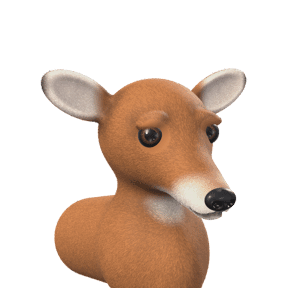
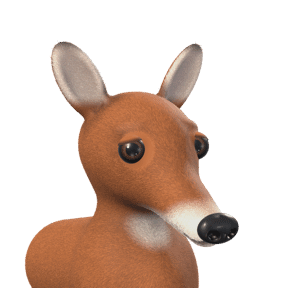
Neubau Reh, Katze und Retriever
Reh mit schraeg stehenden Lauschern statt waagerechter, ohne Brauenwulst,
mit laengerer Schnauze und schwarzem Nasenspiegel. Katze und Retriever mit
erwachsenen Proportionen: schmalerer Kopf, laengere Schnauze, kleinere Augen;
Retriever in Dreiviertelansicht. Alle drei Ausdruecke.

pruef-alles 9/9.

diff --git a/tools/figuren_rendern/Tiere.swift b/tools/figuren_rendern/Tiere.swift
@@ -497,16 +497,16 @@ func fuchs() -> (SCNNode, Float, V) {
 func katze() -> (SCNNode, Float, V) {
     let rot = hex("#D9893E"), streifen = hex("#9E5320"), weiss = hex("#F4EBDF"), rosa = hex("#E8A9A0")
     var formen: [Form] = [
-        Form(art: .ellipsoid(V(0.95, 0.80, 0.85)), mitte: V(0, 0.10, 0)),
-        Form(art: .ellipsoid(V(0.42, 0.30, 0.34)), mitte: V(-0.60, -0.22, 0.25), weich: 0.30),
-        Form(art: .ellipsoid(V(0.42, 0.30, 0.34)), mitte: V(0.60, -0.22, 0.25), weich: 0.30),
+        Form(art: .ellipsoid(V(0.82, 0.72, 0.84)), mitte: V(0, 0.10, -0.02)),
+        Form(art: .ellipsoid(V(0.36, 0.26, 0.32)), mitte: V(-0.52, -0.22, 0.26), weich: 0.30),
+        Form(art: .ellipsoid(V(0.36, 0.26, 0.32)), mitte: V(0.52, -0.22, 0.26), weich: 0.30),
         // Schnurrhaarpolster: zwei Wuelste unter der Nase, das Kennzeichen jedes Katzengesichts.
-        Form(art: .ellipsoid(V(0.22, 0.17, 0.18)), mitte: V(-0.15, -0.26, 0.78), weich: 0.12),
-        Form(art: .ellipsoid(V(0.22, 0.17, 0.18)), mitte: V(0.15, -0.26, 0.78), weich: 0.12),
-        Form(art: .ellipsoid(V(0.17, 0.12, 0.14)), mitte: V(0, -0.42, 0.68), weich: 0.12),
+        Form(art: .ellipsoid(V(0.18, 0.14, 0.15)), mitte: V(-0.13, -0.26, 0.86), weich: 0.12),
+        Form(art: .ellipsoid(V(0.18, 0.14, 0.15)), mitte: V(0.13, -0.26, 0.86), weich: 0.12),
+        Form(art: .ellipsoid(V(0.15, 0.11, 0.14)), mitte: V(0, -0.42, 0.76), weich: 0.12),
     ]
-    formen += ohrPaar(0.50, 0.55, -0.05, laenge: V(0.22, 0.62, -0.02), r1: 0.34, r2: 0.05, flach: 0.42)
-    formen += lider(0.33, 0.12, 0.66, 0.18, weich: 0.12)
+    formen += ohrPaar(0.46, 0.52, -0.06, laenge: V(0.18, 0.54, -0.02), r1: 0.30, r2: 0.045, flach: 0.42)
+    formen += lider(0.30, 0.13, 0.66, 0.15, weich: 0.12)
     let kopf = Koerper(formen: formen, farbe: { p, n in
         var c = farbeMitRauschen(rot, p, 0.07)
         // Tigerung: Streifen quer ueber Stirn und Wangen, auf der Stirn das "M".
@@ -524,15 +524,15 @@ func katze() -> (SCNNode, Float, V) {
     }, rauheit: 0.72, fell: 0.06)
     // Katze: helles Fell ueber den Augen (Katzen haben einen hellen Ring ums Auge); mittellang,
     // Wangenbueschel, kurz auf den Schnurrhaarpolstern.
-    var (braue, braueM) = mitBrauen(kopf, x: 0.30, y: 0.35, laenge: 0.13, dicke: 0.045, winkel: 0.18, farbe: mische(rot, weiss, 0.6), staerke: 0.85)
-    braue.haar = haarKarte(kopf, FellKarte(kopf: 0.05, rumpf: 0.07, nase: V(0, -0.06, 0.92), schnauze: 0.45,
-        augen: augenStellen(kopf, x: 0.33, y: 0.12), augenR: 0.19,
-        zonen: beide(V(0.62, -0.22, 0.25), V(0.40, 0.30, 0.40), 1.8) + [(V(0, 0.85, 0), V(0.9, 0.35, 0.5), 0.35)]), braue: braueM)
-    braue.fellArt = Fell(dichte: 85, ursprung: V(0, -0.06, 0.92), spitze: 1.04, straehnen: 0.3)
+    var (braue, braueM) = mitBrauen(kopf, x: 0.30, y: 0.35, laenge: 0.13, dicke: 0.045, winkel: 0.18, farbe: mische(rot, weiss, 0.4), staerke: 0.5)
+    braue.haar = haarKarte(kopf, FellKarte(kopf: 0.05, rumpf: 0.07, nase: V(0, -0.06, 1.00), schnauze: 0.45,
+        augen: augenStellen(kopf, x: 0.30, y: 0.13), augenR: 0.16,
+        zonen: beide(V(0.54, -0.22, 0.26), V(0.38, 0.30, 0.40), 1.8) + [(V(0, 0.85, 0), V(0.9, 0.35, 0.5), 0.35)]), braue: braueM)
+    braue.fellArt = Fell(dichte: 95, ursprung: V(0, -0.06, 1.00), wurzel: 0.58, spitze: 1.12, straehnen: 0.3, streuung: 0.15)
     // Katze: das "ω" — eine Rinne von der Nase senkrecht nach unten, die sich unter den
     // Schnurrhaarpolstern in zwei Boegen teilt.
-    let maul = mitMaul(braue, Maul(kurven: [Kurve(punkte: [V(0, -0.17, 0.98), V(0, -0.30, 0.97), V(0, -0.38, 0.94)], spitzHinten: false)]
-        + paar(Kurve(punkte: [V(0, -0.38, 0.94), V(0.06, -0.43, 0.92), V(0.13, -0.43, 0.88), V(0.19, -0.39, 0.82)], spitzVorn: false)),
+    let maul = mitMaul(braue, Maul(kurven: [Kurve(punkte: [V(0, -0.17, 1.06), V(0, -0.30, 1.05), V(0, -0.38, 1.02)], spitzHinten: false)]
+        + paar(Kurve(punkte: [V(0, -0.38, 1.02), V(0.06, -0.43, 1.00), V(0.13, -0.43, 0.96), V(0.19, -0.39, 0.90)], spitzVorn: false)),
         r: 0.031, farbe: hex("#7E4234"), staerke: 0.85))
     let bau = Bau(bein: 0.17, ruecken: 0.60)
     let koerper = brustbild(maul, vierbeiner(bau), farbe: { p, _ in
@@ -544,8 +544,8 @@ func katze() -> (SCNNode, Float, V) {
         return mische(c, farbeMitRauschen(weiss, p, 0.04), latz(p, breite: 0.30))
     })
     let w = SCNNode(); w.addChildNode(brustKnoten(koerper))
-    tierNase(w, mitte: V(0, -0.08, 0.93), r: V(0.095, 0.06, 0.06), farbe: hex("#C97F7C"), dreieck: true)
-    augenEinsetzen(w, kopf, x: 0.33, y: 0.12, r: 0.17, iris: NSColor(calibratedRed: 0.62, green: 0.74, blue: 0.22, alpha: 1), pupille: 0.55, schlitz: true, schlitzBreite: 0.62, ausdruck: Ausdruck(oben: 0.10, unten: 0.07, schraeg: 0.14, funke: 1.5, wange: 0.40))
+    tierNase(w, mitte: V(0, -0.08, 1.01), r: V(0.095, 0.06, 0.06), farbe: hex("#C97F7C"), dreieck: true)
+    augenEinsetzen(w, kopf, x: 0.30, y: 0.13, r: 0.145, iris: NSColor(calibratedRed: 0.62, green: 0.74, blue: 0.22, alpha: 1), pupille: 0.55, schlitz: true, schlitzBreite: 0.62, ausdruck: Ausdruck(oben: 0.10, unten: 0.07, schraeg: 0.14, funke: 1.5, wange: 0.40))
     w.eulerAngles = SCNVector3(0.06, 0.34, 0.12)
     return (w, 7.3, V(0, 0.18, 0))
 }
@@ -702,42 +702,43 @@ func hase() -> (SCNNode, Float, V) {
 // ---------- Reh ----------
 
 func reh() -> (SCNNode, Float, V) {
-    let braun = hex("#B47548"), weiss = hex("#F2E8DC"), dunkel = hex("#3A2418")
+    let braun = hex("#A9643A"), weiss = hex("#F2E8DC"), dunkel = hex("#3A2418")
     var formen: [Form] = [
         // Wie beim echten Reh: schmale Hirnschale, langer, sich verjuengender Nasenruecken.
-        Form(art: .ellipsoid(V(0.66, 0.64, 0.74)), mitte: V(0, 0.17, -0.08)),
+        Form(art: .ellipsoid(V(0.58, 0.58, 0.80)), mitte: V(0, 0.17, -0.10)),
         // lange, schmale Schnauze
-        Form(art: .rundkegel(V(0, -0.36, 0.90), 0.38, 0.23), mitte: V(0, -0.02, 0.28), weich: 0.28),
+        Form(art: .rundkegel(V(0, -0.40, 1.02), 0.34, 0.19), mitte: V(0, -0.02, 0.28), weich: 0.28),
     ]
-    // Lauscher: gross, seitlich abstehend, schaufelfoermig.
+    // Lauscher: gross und oval, SCHRAEG NACH OBEN (waagerecht abstehend wirkten sie wie Zeichentrick), leicht nach vorn offen.
     for sx: Float in [-1, 1] {
-        formen.append(Form(art: .ellipsoid(V(0.48, 0.24, 0.10)), mitte: V(0.92 * sx, 0.62, -0.18),
-                           drehung: simd_quatf(angle: 0.45 * sx, axis: V(0, 0, 1)), weich: 0.12))
-        formen.append(Form(art: .ellipsoid(V(0.38, 0.17, 0.08)), mitte: V(0.94 * sx, 0.64, -0.10),
-                           drehung: simd_quatf(angle: 0.45 * sx, axis: V(0, 0, 1)), weich: 0.05, abziehen: true))
+        let dreh = simd_quatf(angle: -0.55 * sx, axis: V(0, 0, 1)) * simd_quatf(angle: 0.30 * sx, axis: V(0, 1, 0))
+        formen.append(Form(art: .ellipsoid(V(0.22, 0.46, 0.09)), mitte: V(0.60 * sx, 0.86, -0.22), drehung: dreh, weich: 0.12))
+        formen.append(Form(art: .ellipsoid(V(0.15, 0.36, 0.07)), mitte: V(0.62 * sx, 0.88, -0.15), drehung: dreh, weich: 0.05, abziehen: true))
     }
-    formen += lider(0.36, 0.22, 0.52, 0.16)
+    formen += lider(0.36, 0.22, 0.52, 0.10)
     let kopf = Koerper(formen: formen, farbe: { p, n in
         var c = farbeMitRauschen(braun, p, 0.08)
         // Weisser Ring um die Schnauze, Kinn hell, Nasenruecken dunkler.
-        c = mische(c, weiss, region(p, V(0, -0.400, 1.080), V(0.34, 0.24, 0.30), 0.35))
+        c = mische(c, weiss, region(p, V(0, -0.440, 1.200), V(0.30, 0.22, 0.32), 0.35))
         c = mische(c, weiss, glatt(-0.30, -0.45, p.y) * glatt(0.3, 0.6, p.z))
-        c *= 1 - 0.20 * region(p, V(0, -0.060, 1.160), V(0.15, 0.3, 0.4), 0.5)
+        c *= 1 - 0.20 * region(p, V(0, -0.080, 1.260), V(0.14, 0.3, 0.45), 0.5)
         // Ohren innen hell, Rand dunkel.
-        let ohr = glatt(0.62, 0.80, abs(p.x)) * glatt(0.30, 0.45, p.y)
-        c = mische(c, mische(mische(c, dunkel, 0.3), weiss, glatt(0.0, 0.6, n.z)), ohr)
-        c = mische(c, dunkel, glatt(1.25, 1.38, abs(p.x)) * ohr)
+        let ohr = glatt(0.58, 0.72, p.y) * glatt(0.30, 0.42, abs(p.x))
+        c = mische(c, mische(mische(c, dunkel, 0.25), weiss, glatt(0.0, 0.6, n.z) * 0.8), ohr)
+        c = mische(c, dunkel, glatt(1.12, 1.28, p.y) * ohr * 0.9)                 // dunkle Spitzen
+        // Helle Flecken seitlich am schwarzen Nasenspiegel.
+        for sx: Float in [-1, 1] { c = mische(c, weiss, region(p, V(0.14 * sx, -0.40, 1.42), V(0.09, 0.08, 0.12), 0.3) * 0.85) }
         return c
     }, rauheit: 0.75, fell: 0.06)
     // Reh: nur ein Hauch heller ueber dem Auge (weisse Brauen hat es nicht); kurzes, anliegendes Fell.
-    var (braue, braueM) = mitBrauen(kopf, x: 0.34, y: 0.41, laenge: 0.11, dicke: 0.045, winkel: 0.2, farbe: mische(braun, weiss, 0.30), staerke: 0.45, wulst: 0.6)
-    braue.haar = haarKarte(kopf, FellKarte(kopf: 0.045, rumpf: 0.055, nase: V(0, -0.360, 1.380), schnauze: 0.6,
+    var (braue, braueM) = mitBrauen(kopf, x: 0.34, y: 0.41, laenge: 0.11, dicke: 0.045, winkel: 0.2, farbe: mische(braun, weiss, 0.30), staerke: 0.30, wulst: 0.12)
+    braue.haar = haarKarte(kopf, FellKarte(kopf: 0.045, rumpf: 0.055, nase: V(0, -0.400, 1.500), schnauze: 0.6,
         augen: augenStellen(kopf, x: 0.36, y: 0.22), augenR: 0.17, braue: 0.3,
-        zonen: beide(V(0.92, 0.62, -0.18), V(0.55, 0.30, 0.25), 0.6)), braue: braueM)
-    braue.fellArt = Fell(dichte: 120, aufrecht: 0.28, neigung: 1.6, ursprung: V(0, -0.360, 1.380), wurzel: 0.58, spitze: 1.18, straehnen: 0.2, streuung: 0.16)
+        zonen: beide(V(0.60, 0.86, -0.22), V(0.30, 0.50, 0.25), 0.6)), braue: braueM)
+    braue.fellArt = Fell(dichte: 120, aufrecht: 0.28, neigung: 1.6, ursprung: V(0, -0.400, 1.500), wurzel: 0.58, spitze: 1.18, straehnen: 0.2, streuung: 0.16)
     // Reh: geschlossenes, schmales Maul tief an der Schnauzenspitze, mit kaum angehobenem Winkel — sanft.
-    let maul = mitMaul(braue, Maul(kurven: [Kurve(punkte: [V(0, -0.470, 1.440), V(0, -0.525, 1.420)], spitzHinten: false)]
-        + paar(Kurve(punkte: [V(0, -0.525, 1.420), V(0.08, -0.550, 1.350), V(0.15, -0.540, 1.230), V(0.20, -0.500, 1.120)], spitzVorn: false)),
+    let maul = mitMaul(braue, Maul(kurven: [Kurve(punkte: [V(0, -0.510, 1.560), V(0, -0.565, 1.540)], spitzHinten: false)]
+        + paar(Kurve(punkte: [V(0, -0.565, 1.540), V(0.08, -0.590, 1.460), V(0.14, -0.575, 1.330), V(0.19, -0.530, 1.200)], spitzVorn: false)),
         r: 0.030, farbe: dunkel, staerke: 0.85))
     let bau = Bau(brust: 0.9, hals: 0.30, halsLaenge: 1.5, bein: 0.12, beinAbstand: 0.20, beinOben: -1.55, ruecken: 0.62, rueckenHoehe: -1.10)
     let koerper = brustbild(maul, vierbeiner(bau), farbe: { p, _ in
@@ -746,7 +747,7 @@ func reh() -> (SCNNode, Float, V) {
         return mische(farbeMitRauschen(braun, p, 0.08), farbeMitRauschen(weiss, p, 0.04), kehle * 0.9)
     })
     let w = SCNNode(); w.addChildNode(brustKnoten(koerper))
-    tierNase(w, mitte: V(0, -0.360, 1.380), r: V(0.18, 0.12, 0.10), farbe: hex("#141011"))
+    tierNase(w, mitte: V(0, -0.400, 1.500), r: V(0.21, 0.14, 0.11), farbe: hex("#141011"))
     augenEinsetzen(w, kopf, x: 0.36, y: 0.22, r: 0.155, iris: NSColor(calibratedRed: 0.26, green: 0.14, blue: 0.08, alpha: 1), pupille: 0.55, aussen: 0.45, ausdruck: Ausdruck(oben: 0.14, unten: 0.05, schraeg: 0.26, funke: 1.5, wange: 0.40))
     w.eulerAngles = SCNVector3(0.10, 0.48, 0.04)
     return (w, 8.0, V(0, 0.15, 0.2))
@@ -810,11 +811,11 @@ func hund() -> (SCNNode, Float, V) {
     let gold = hex("#D6A15A"), hell = hex("#EFD3A4"), dunkel = hex("#A8743A")
     var formen: [Form] = [
         // Erwachsener Golden Retriever: breiter, flacher Schaedel, Schnauze fast so lang wie der Schaedel.
-        Form(art: .ellipsoid(V(0.84, 0.72, 0.88)), mitte: V(0, 0.10, -0.08)),
-        Form(art: .ellipsoid(V(0.46, 0.36, 0.40)), mitte: V(-0.40, -0.25, 0.35), weich: 0.30),
-        Form(art: .ellipsoid(V(0.46, 0.36, 0.40)), mitte: V(0.40, -0.25, 0.35), weich: 0.30),
+        Form(art: .ellipsoid(V(0.80, 0.64, 0.88)), mitte: V(0, 0.10, -0.08)),
+        Form(art: .ellipsoid(V(0.38, 0.30, 0.38)), mitte: V(-0.38, -0.25, 0.38), weich: 0.30),
+        Form(art: .ellipsoid(V(0.38, 0.30, 0.38)), mitte: V(0.38, -0.25, 0.38), weich: 0.30),
         // Schnauze: breit, tief und laenger als beim Welpen, mit deutlichem Stop zur Stirn
-        Form(art: .ellipsoid(V(0.36, 0.31, 0.54)), mitte: V(0, -0.21, 1.00), weich: 0.25),
+        Form(art: .ellipsoid(V(0.34, 0.29, 0.62)), mitte: V(0, -0.21, 1.10), weich: 0.25),
         Form(art: .ellipsoid(V(0.55, 0.22, 0.32)), mitte: V(0, 0.36, 0.50), weich: 0.25),
     ]
     // Schlappohren: haengen seitlich herab.
@@ -826,34 +827,34 @@ func hund() -> (SCNNode, Float, V) {
     formen += lider(0.32, 0.20, 0.68, 0.14)
     let kopf = Koerper(formen: formen, farbe: { p, n in
         var c = farbeMitRauschen(gold, p, 0.08)
-        c = mische(c, hell, region(p, V(0, -0.210, 1.070), V(0.40, 0.30, 0.30), 0.4) * 0.75)
+        c = mische(c, hell, region(p, V(0, -0.210, 1.190), V(0.40, 0.30, 0.30), 0.4) * 0.75)
         c = mische(c, dunkel, glatt(0.74, 0.86, abs(p.x)) * 0.75)   // Ohren dunkler golden
         return c
     }, rauheit: 0.78, fell: 0.08)
     // Retriever: helle, bewegliche Brauenbueschel, innen angehoben; langes, welliges Fell, das an Ohren
     // und Brust in Fahnen faellt.
-    var (braue, braueM) = mitBrauen(kopf, x: 0.29, y: 0.39, laenge: 0.12, dicke: 0.06, winkel: 0.35, farbe: hex("#F6E6C6"), staerke: 0.9)
-    braue.haar = haarKarte(kopf, FellKarte(kopf: 0.055, rumpf: 0.14, nase: V(0, -0.060, 1.440), schnauze: 0.6,
-        augen: augenStellen(kopf, x: 0.32, y: 0.20), augenR: 0.15,
+    var (braue, braueM) = mitBrauen(kopf, x: 0.29, y: 0.39, laenge: 0.12, dicke: 0.06, winkel: 0.35, farbe: hex("#EBD3A6"), staerke: 0.5)
+    braue.haar = haarKarte(kopf, FellKarte(kopf: 0.055, rumpf: 0.14, nase: V(0, -0.060, 1.560), schnauze: 0.6,
+        augen: augenStellen(kopf, x: 0.32, y: 0.20), augenR: 0.13,
         braue: 1.2, zonen: beide(V(0.82, 0.02, -0.02), V(0.32, 0.55, 0.25), 2.0) + [(V(0, -1.0, 0.6), V(0.55, 0.6, 0.5), 1.5)]), braue: braueM)
-    braue.fellArt = Fell(dichte: 70, schwere: 0.9, ursprung: V(0, -0.050, 1.300), wurzel: 0.56, spitze: 1.22, straehnen: 0.7, streuung: 0.18)
+    braue.fellArt = Fell(dichte: 70, schwere: 0.9, ursprung: V(0, -0.050, 1.420), wurzel: 0.56, spitze: 1.22, straehnen: 0.7, streuung: 0.18)
     // Retriever: das offene Hundelachen — Rinne unter der Nase, Mundwinkel weit hinten und hoch, dazwischen
     // ein offenes Maul mit Zunge. Der Unterkiefer gibt dem offenen Maul unten einen Rand.
     var kiefer = braue
-    kiefer.formen.append(Form(art: .ellipsoid(V(0.28, 0.13, 0.30)), mitte: V(0, -0.480, 1.120), weich: 0.18))
-    let maul = mitMaul(kiefer, Maul(kurven: [Kurve(punkte: [V(0, -0.170, 1.490), V(0, -0.260, 1.470), V(0, -0.320, 1.440)], spitzHinten: false)]
-        + paar(Kurve(punkte: [V(0, -0.320, 1.440), V(0.09, -0.370, 1.390), V(0.19, -0.360, 1.290), V(0.27, -0.280, 1.160)], spitzVorn: false)),
+    kiefer.formen.append(Form(art: .ellipsoid(V(0.28, 0.13, 0.30)), mitte: V(0, -0.480, 1.240), weich: 0.18))
+    let maul = mitMaul(kiefer, Maul(kurven: [Kurve(punkte: [V(0, -0.170, 1.610), V(0, -0.260, 1.590), V(0, -0.320, 1.560)], spitzHinten: false)]
+        + paar(Kurve(punkte: [V(0, -0.320, 1.560), V(0.09, -0.370, 1.510), V(0.19, -0.360, 1.410), V(0.27, -0.280, 1.280)], spitzVorn: false)),
         r: 0.032, farbe: hex("#3A2414"), staerke: 0.85,
-        hoehlen: [Form(art: .ellipsoid(V(0.17, 0.075, 0.16)), mitte: V(0, -0.405, 1.360), weich: 0.04)]))
+        hoehlen: [Form(art: .ellipsoid(V(0.17, 0.075, 0.16)), mitte: V(0, -0.405, 1.600), weich: 0.04)]))
     let bau = Bau(brust: 1.2, tiefe: 1.1, hals: 0.48, bein: 0.20, beinAbstand: 0.26, ruecken: 0.70)
     let koerper = brustbild(maul, vierbeiner(bau), farbe: { p, _ in
         mische(farbeMitRauschen(gold, p, 0.08), farbeMitRauschen(hell, p, 0.05), latz(p, breite: 0.38) * 0.7)
     })
     let w = SCNNode(); w.addChildNode(brustKnoten(koerper))
-    tierNase(w, mitte: V(0, -0.060, 1.440), r: V(0.18, 0.12, 0.12), farbe: hex("#171112"))
-    w.addChildNode(perle(V(0, -0.450, 1.340), V(0.12, 0.045, 0.13), farbe: NSColor(calibratedRed: 0.90, green: 0.45, blue: 0.50, alpha: 1), rauheit: 0.35))
-    augenEinsetzen(w, kopf, x: 0.32, y: 0.20, r: 0.16, iris: NSColor(calibratedRed: 0.42, green: 0.24, blue: 0.10, alpha: 1), pupille: 0.58, ausdruck: Ausdruck(oben: 0.06, unten: 0.20, schraeg: 0.10, funke: 1.5, wange: 0.25))
-    w.eulerAngles = SCNVector3(0.06, 0.18, 0.14)
+    tierNase(w, mitte: V(0, -0.060, 1.560), r: V(0.18, 0.12, 0.12), farbe: hex("#171112"))
+    w.addChildNode(perle(V(0, -0.450, 1.460), V(0.12, 0.045, 0.13), farbe: NSColor(calibratedRed: 0.90, green: 0.45, blue: 0.50, alpha: 1), rauheit: 0.35))
+    augenEinsetzen(w, kopf, x: 0.32, y: 0.20, r: 0.14, iris: NSColor(calibratedRed: 0.42, green: 0.24, blue: 0.10, alpha: 1), pupille: 0.58, ausdruck: Ausdruck(oben: 0.06, unten: 0.20, schraeg: 0.10, funke: 1.5, wange: 0.25))
+    w.eulerAngles = SCNVector3(0.06, 0.55, 0.06)
     return (w, 7.6, V(0, 0.12, 0.1))
 }
 

diff --git a/docs/ios-huelle-journal.md b/docs/ios-huelle-journal.md
@@ -7,7 +7,7 @@ gehoert ebenfalls hierher — nicht stillschweigend uebersprungen. Neueste Eintr
 
 ---
 
-## ÜBERGABE an die naechste Sitzung (Stand 2026-10-29, nach Runde 194)
+## ÜBERGABE an die naechste Sitzung (Stand 2026-10-30, nach Runde 195)
 
 **Lies NUR diesen Block.** Er genuegt allein; die Eintraege darunter sind Begruendungen zum
 Nachschlagen. Dazu `tools/xcode-CLAUDE.md` (liegt als `ios/App/CLAUDE.md` neben der `.xcodeproj`
@@ -54,7 +54,8 @@ Regeln, die er gesetzt hat:
 
 | Runde | Commit | Inhalt |
 | --- | --- | --- |
-| 194 | (dieser) | Katze, Siamkatze, Fuchs, Reh: kleinere Augen, feinere Tigerung, kraeftigere Siam-Maske, Reh-Fell |
+| 195 | (dieser) | Neubau Reh (Lauscher, Schnauze), Katze und Retriever erwachsen |
+| 194 | `5aed21b` | Katze, Siamkatze, Fuchs, Reh: kleinere Augen, feinere Tigerung, kraeftigere Siam-Maske, Reh-Fell |
 | 193 | `4f77b6a` | Neue Modelle: Wal laenger, Delfin mit Schnabel, Seeotter dunkler Koerper, kleinere Augen |
 | 192 | `4bd9578` | Neue Modelle: Rotkehlchen, Waldkauz (ohne Federohren), Hellroter Ara, Flamingo |
 | 191 | `e6b51a5` | Pinguin als neues Modell: Koenigspinguin-Brustbild, Ausdruck ueber die Haltung |
@@ -249,7 +250,7 @@ Regeln, die er gesetzt hat:
 
 ### Was offen ist
 
-**Kein laufender Auftrag.** Runden 165–194 sind erledigt und gepusht. Der naechste Auftrag kommt im Gespraech.
+**Kein laufender Auftrag.** Runden 165–195 sind erledigt und gepusht. Der naechste Auftrag kommt im Gespraech.
 
 *Wartet auf eine Entscheidung des Inhabers (aus Runde 179, mit Empfehlung vorgelegt — nicht ungefragt bauen):*
 - **Mindestversion iOS 16.4** statt 15.0 (Empfehlung). Grund: 62× `color-mix()` (erst ab 16.2) ohne Ersatz, Strahlenkranz
@@ -343,6 +344,8 @@ Startbild. Das allererste Startbild zeichnet iOS vor dem App-Start — **nicht n
   (ausser `#myCode`); Teilbild 1080×1350; keine Striche mit runden Enden auf Avatargroesse.
 
 ### Stand der Pruefungen
+
+**Nach Runde 195: ALLE 9 BESTANDEN**.
 
 **Nach Runde 194: ALLE 9 BESTANDEN**.
 
@@ -528,6 +531,16 @@ Bitte. Arbeitsbaum sauber bis auf `ios/App/App.xcworkspace/xcshareddata/` (absic
 Pruefstand: `pruef-alles` 9/9 — `tests` 10 Reihen, `pruef-app` 36, `pruef-nativ` 102, `fehlersuche` 28 ohne Fund.
 
 ---
+
+## Runde 195 — Neubau Reh, Katze, Retriever
+
+**Reh:** Lauscher standen waagerecht ab (Zeichentrick) — jetzt gross, oval, schraeg nach oben; Brauenwulst weg (Rehe haben keinen),
+Lidbeulen kleiner (sie trugen den grimmigen Blick, nicht die Braue); Schaedel schmaler, Schnauze laenger und schlanker (Nase, Maul,
+Flecken mitgezogen); grosser schwarzer Nasenspiegel mit hellen Flecken daneben, kraeftigeres Rotbraun. **Katze:** erwachsene
+Proportionen — Kopf schmaler und flacher, Backen kleiner, Schnauze nach vorn, Ohren kleiner, helle Braue zurueckgenommen. Dabei
+eigener Fehler: Der schmalere Kopf liess die gleich grossen Augen relativ GROESSER wirken — Augen mitgezogen (0,145), Polster kleiner.
+**Retriever:** Schaedel flacher, Backen schmaler, Schnauze laenger (Nase, Maul, Kiefer, Zunge um 0,12 mitgezogen), Augen kleiner,
+Brauen dezenter; frontal wirkte die Schnauze wie eine Knolle — in Dreiviertelansicht gedreht. Alle drei Ausdruecke.
 
 ## Runde 194 — Neue Modelle Gruppe 3: Katze, Siamkatze, Fuchs, Reh
 
